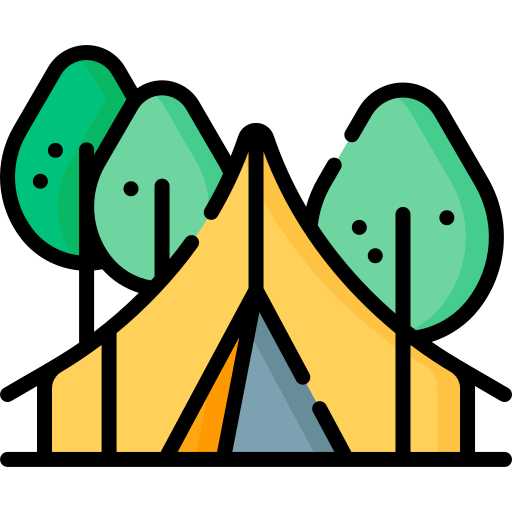
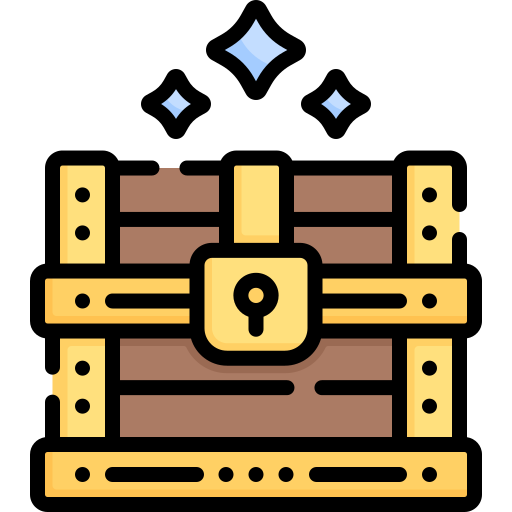
Cleanup cards on front page

diff --git a/assets/css/application.css b/assets/css/application.css
@@ -269,3 +269,31 @@ main {
 .type-label, .category-label {
   width: 120px;
 }
+
+/* Landing page - Categories */
+
+/*
+ .categories-row {
+  display: flex;
+  flex-wrap: wrap;
+  gap: 1rem;
+  width: 100%;
+}
+
+.category-card {
+  flex: 1 1 0;
+  min-width: 0;
+  max-width: 100%;
+  margin-bottom: 0;
+}
+*/
+
+@media (max-width: 768px) {
+  .categories-row {
+    flex-direction: column;
+  }
+  .category-card {
+    width: 100%;
+    max-width: 100%;
+  }
+} 

diff --git a/views/home/landing/categories.html b/views/home/landing/categories.html
@@ -2,7 +2,7 @@
     {{ $Types := $.Types }}
     {{ range .Categories }}
     {{ $categoryID := .ID }}
-    <div class="col-md-4 mb-4">
+    <div class="col">
         <div class="card h-100">
             <div class="card-body text-center">
                 <img src="/images/categories/{{ .ID }}.png" alt="{{ .Name }}" class="img-fluid mb-3"